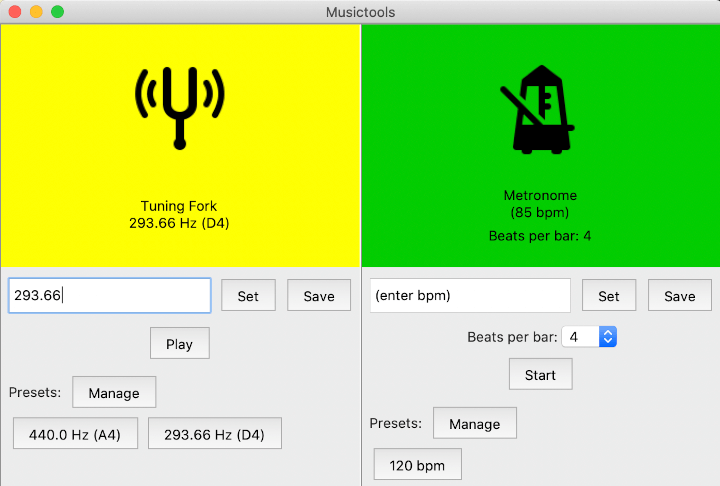
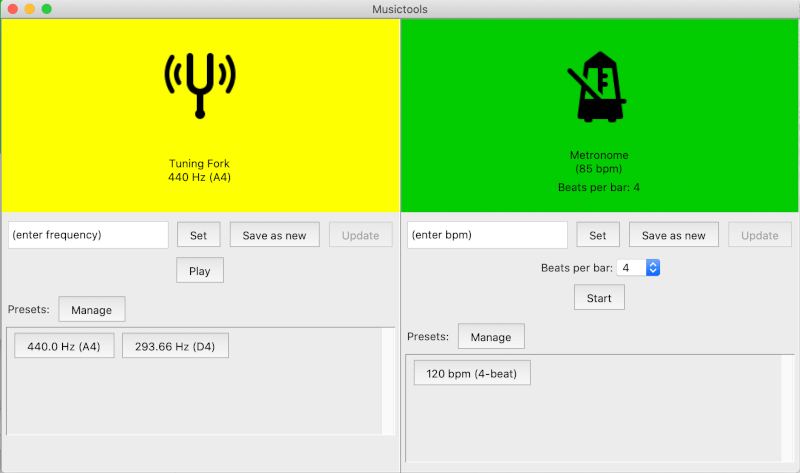
Update instructions for use

diff --git a/musictools/dokumentaatio/kayttoohje.md b/musictools/dokumentaatio/kayttoohje.md
@@ -75,7 +75,11 @@ Taajuuden voi myös asettaa esiasetusnappia painamalla, jos esiasetuksia on tall
 
 Viritysääni käynnistyy painamalla nappia _Play_ ja pysähtyy painamalla samaa nappia uudestaan.
 
-Taajuuskentässä näkyvän arvon voi tallentaa esiasetukseksi _Save_-nappia painamalla. Sovellus generoi automaattisesti taajuudelle sävelnimen, joka tallentuu esiasetuksen nimeksi. Nimi lasketaan tasavireisen asteikon mukaan, ympäristömuuttujana asetettavissa olevan a-sävelen pohjalta.
+Taajuuskentässä näkyvän arvon voi tallentaa uudeksi esiasetukseksi _Save as new_-nappia painamalla. Sovellus generoi automaattisesti taajuudelle sävelnimen, joka tallentuu esiasetuksen nimeksi. Nimi lasketaan tasavireisen asteikon mukaan, ympäristömuuttujana asetettavissa olevan a-sävelen pohjalta.
+
+Tallennetun esiasetuksen arvoja voi muuttaa painamalla kyseistä esiasetusnappia. Tämän jälkeen työkalun arvoihin tehdyt muutokset voi tallentaa samaan esiasetukseen painamalla nappia _Update_. Esiasetus, johon Update-napin päivitystoiminto kohdistuu, on merkitty vihreällä kehyksellä.
+
+![Sovellusnäkymä, jossa päivitettävä esiasetusnappi on merkitty vihreällä.](./kuvat/musictools_update_preset.png)
 
 Tallennettuja esiasetuksia voi poistaa painamalla _Manage_-nappia. Tällöin avautuu uusi näkymä, jossa tallennetut esiasetukset ovat listattu. Esiasetuksen voi poistaa painamalla esiasetuksen nimen vieressä olevaa _Delete_-nappia.
 
@@ -85,12 +89,10 @@ Esiasetusten hallinointinäkymä suljetaan painamalla nappia _Close_.
 
 ### Metronomi
 
-Metronomille voi asettaa bpm-arvon (eli iskujen määrän minuutissa) kirjoittamalla kokonaisluku kenttään _(enter bpm)_ ja painamalla nappia _Set_.
+Metronomille voi asettaa bpm-arvon (eli iskujen määrän minuutissa) kirjoittamalla kokonaisluvun kenttään _(enter bpm)_ ja painamalla nappia _Set_.
 
 _Beats per bar_-pudotusvalikosta voi valita iskujen määrän tahdissa, jolloin metronomi painottaa tahtien ensimmäiset iskut erilaisella klikkiäänellä. Jos pudotusvalikossa on valittuna arvo 1, painotusta ei tehdä. 
 
 Metronomi käynnistyy _Start_-nappia painamalla ja pysähtyy, kun samaa nappia painaa uudestaan.
-
-Metronomin esiasetusten tallentaminen ja poistaminen toimii vastavalla tavalla kun äänirautanäkymässä.
-
-Metronomin esiasetuksille ei toistaiseksi tallennu bpm-arvon lisäksi muuta nimeä.
+ 
+Metronomin esiasetusten tallentaminen, muokkaaminen ja poistaminen toimii vastavalla tavalla kun äänirautanäkymässä. Metronomin esiasetuksiin tallentuu sekä bpm-arvo että valittuna oleva beats per bar-arvo.
